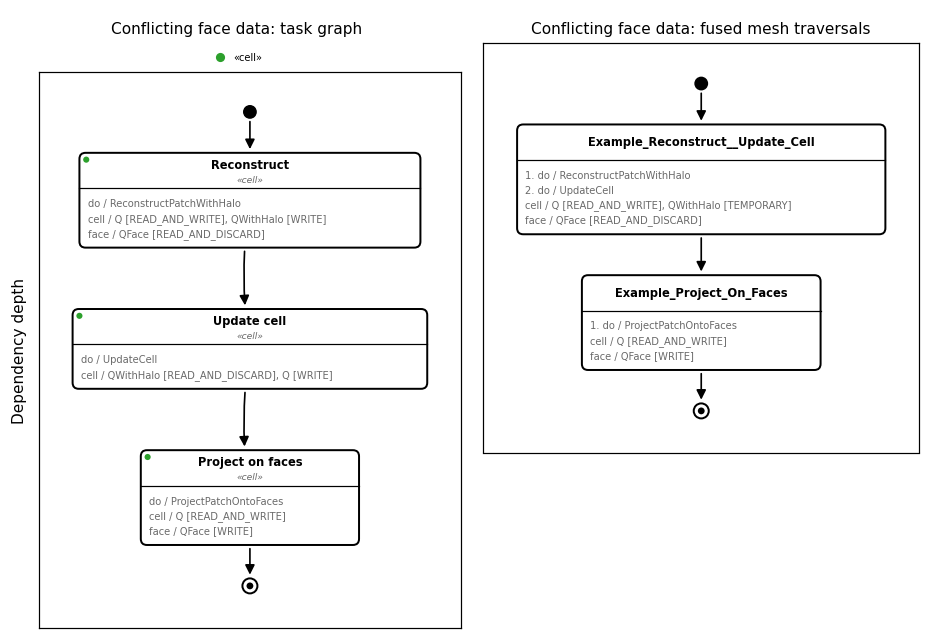
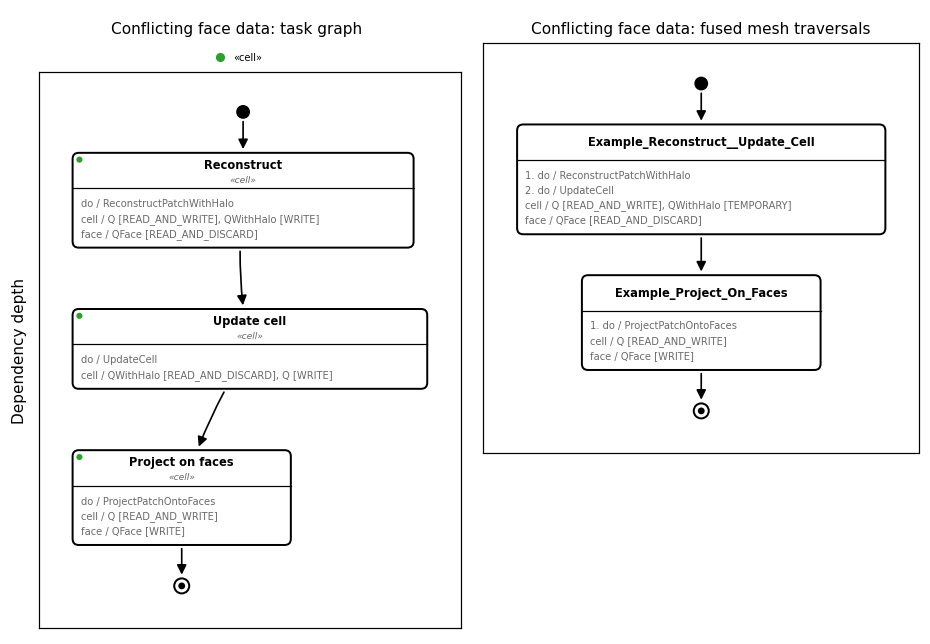
Task graph visualisation: place tasks below their leftmost dependency
Instead of centring every row, a task is left-aligned with its leftmost
dependency and moved to the right only where it would overlap another task.

diff --git a/src/peano4/api/taskgraph/Graph.py b/src/peano4/api/taskgraph/Graph.py
@@ -125,7 +125,9 @@ class Graph:
         sits at the top; everything that - directly or transitively -
         depends on it sits below it), so following the transitions always
         moves downwards, exactly like reading a state diagram's flow of
-        control. The tasks of one layer sit side by side.
+        control. The tasks of one layer sit side by side: every task sits
+        straight below its leftmost dependency and is moved to the right
+        only where it would otherwise overlap another task.
 
         A filled black circle - the UML initial pseudostate - transitions
         into every task that has no dependencies; every task nothing else
@@ -232,29 +234,29 @@ class Graph:
             return SELF_LOOP_WIDTH + 0.06 + SELF_LOOP_LABEL_CHAR_WIDTH * len(task.has_to_repeat)
 
         # Every layer forms one row. The rows are stacked top to bottom,
-        # each as tall as its tallest state, and the states within a row
-        # are placed side by side, centred around x=0. Within a row, the
-        # states are sorted by the mean horizontal position of their
-        # dependencies, so they sit below their predecessors and fewer
-        # transitions cross.
+        # each as tall as its tallest state. Every state is placed straight
+        # below its leftmost dependency, i.e. left-aligned with it, and
+        # moved to the right only if it would otherwise overlap the state
+        # left of it in the same row. States without dependencies start at
+        # x=0 and extend to the right.
         position_of_task = {}
         row_y = 0.0
         for layer in sorted(layers):
-            tasks_in_layer = layers[layer]
-            if layer > 0:
-                tasks_in_layer = sorted(
-                    tasks_in_layer,
-                    key=lambda task: sum(position_of_task[dependency][0] for dependency in task.dependencies)
-                    / len(task.dependencies),
+            def preferred_left_edge(task: Task) -> float:
+                if not task.dependencies:
+                    return 0.0
+                return min(
+                    position_of_task[dependency][0] - width_of_task[dependency] / 2
+                    for dependency in task.dependencies
                 )
+
+            tasks_in_layer = sorted(layers[layer], key=preferred_left_edge)
             row_height = max(height_of_task[task] for task in tasks_in_layer)
-            row_width = sum(width_of_task[task] + self_loop_extent(task) for task in tasks_in_layer) + HORIZONTAL_GAP * (
-                len(tasks_in_layer) - 1
-            )
-            x = -row_width / 2
+            next_free_x = float("-inf")
             for task in tasks_in_layer:
-                position_of_task[task] = (x + width_of_task[task] / 2, row_y - row_height / 2)
-                x += width_of_task[task] + self_loop_extent(task) + HORIZONTAL_GAP
+                left_edge = max(preferred_left_edge(task), next_free_x)
+                position_of_task[task] = (left_edge + width_of_task[task] / 2, row_y - row_height / 2)
+                next_free_x = left_edge + width_of_task[task] + self_loop_extent(task) + HORIZONTAL_GAP
             row_y -= row_height + VERTICAL_GAP
         bottom_y = row_y + VERTICAL_GAP
 
